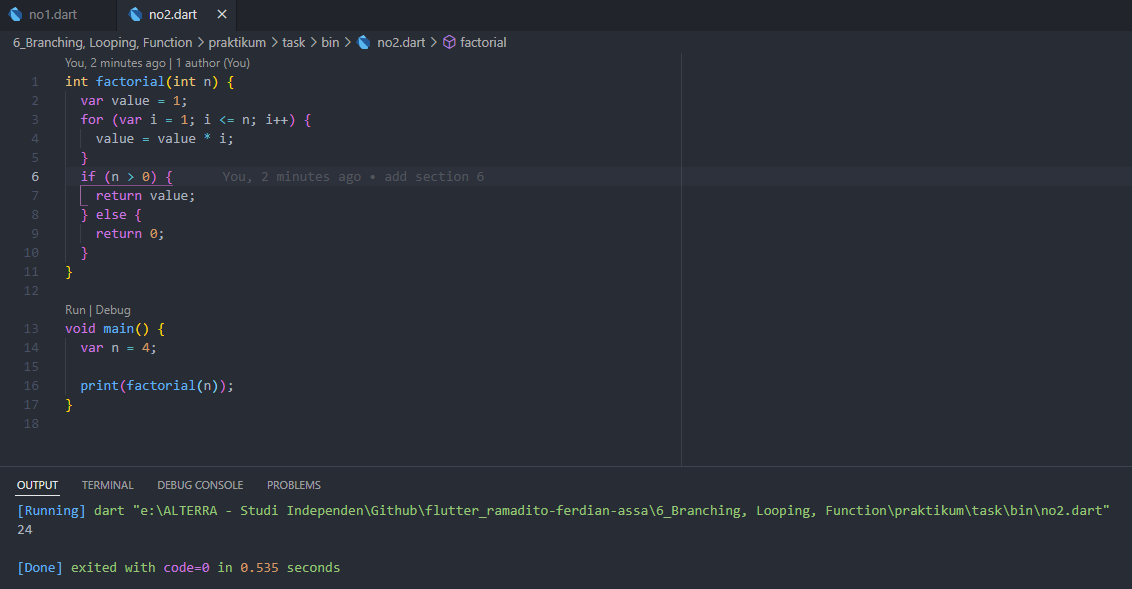
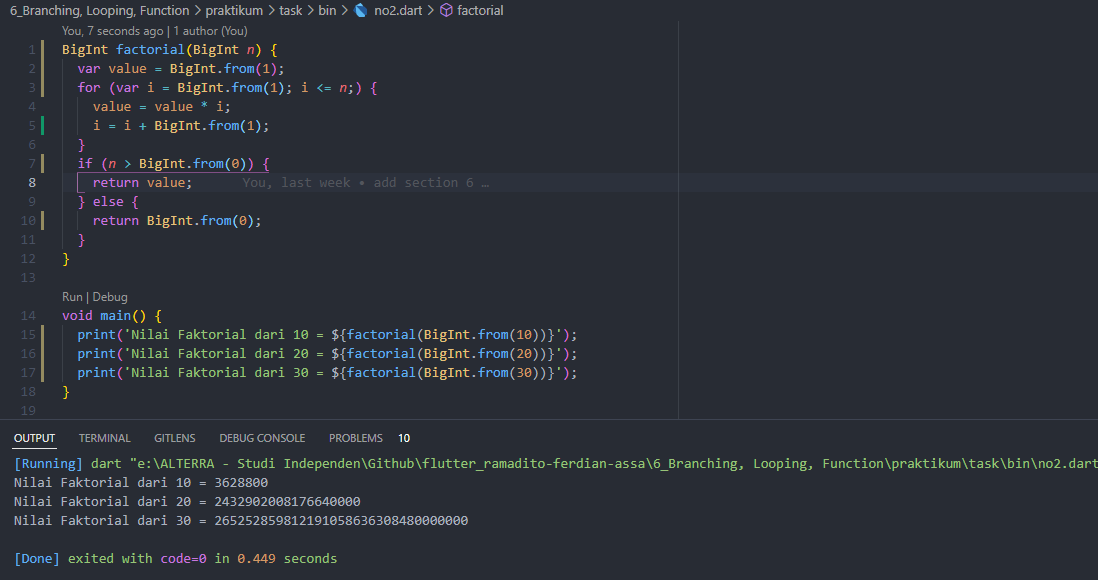
update section 6

diff --git a/6_Branching, Looping, Function/praktikum/task/bin/no2.dart b/6_Branching, Looping, Function/praktikum/task/bin/no2.dart
@@ -1,17 +1,18 @@
-int factorial(int n) {
-  var value = 1;
-  for (var i = 1; i <= n; i++) {
+BigInt factorial(BigInt n) {
+  var value = BigInt.from(1);
+  for (var i = BigInt.from(1); i <= n;) {
     value = value * i;
+    i = i + BigInt.from(1);
   }
-  if (n > 0) {
+  if (n > BigInt.from(0)) {
     return value;
   } else {
-    return 0;
+    return BigInt.from(0);
   }
 }
 
 void main() {
-  var n = 5;
-
-  print(factorial(n));
+  print('Nilai Faktorial dari 10 = ${factorial(BigInt.from(10))}');
+  print('Nilai Faktorial dari 20 = ${factorial(BigInt.from(20))}');
+  print('Nilai Faktorial dari 30 = ${factorial(BigInt.from(30))}');
 }

diff --git a/6_Branching, Looping, Function/summary.md b/6_Branching, Looping, Function/summary.md
@@ -13,7 +13,11 @@ Tuliskan 3 poin yang dipelajari dari materi tersebut. Resume / ringkasan materi 
 
 - Perulangan yaitu menjalankan proses berulang kali. Perulangan pada dart terdiri dari For, while, do-while.
 
+---
 ### Pada praktikum kali ini diberikan 2 soal sebagai berikut mengenai `percabangan` dan `perulangan` dengan membuat `function`.
 
-![image](https://user-images.githubusercontent.com/36509167/155486894-45d2593b-419e-457d-b982-91d0baa6bec0.png)
-
+![soal](/6_Branching,%20Looping,%20Function/screenshots/soal.png)
+#### No 1
+![no1](/6_Branching,%20Looping,%20Function/screenshots/no1.png)
+#### No 2
+![no2](/6_Branching,%20Looping,%20Function/screenshots/no2.png)
